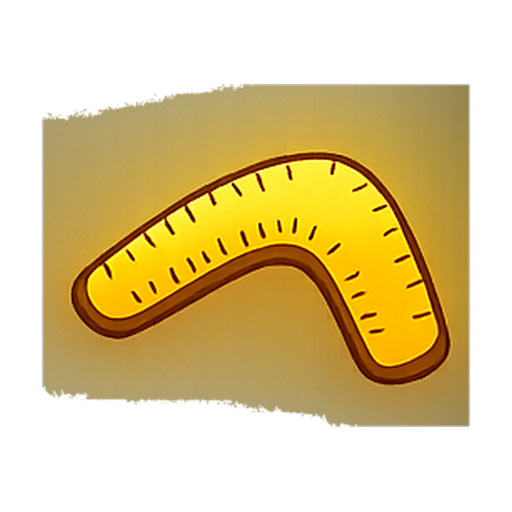
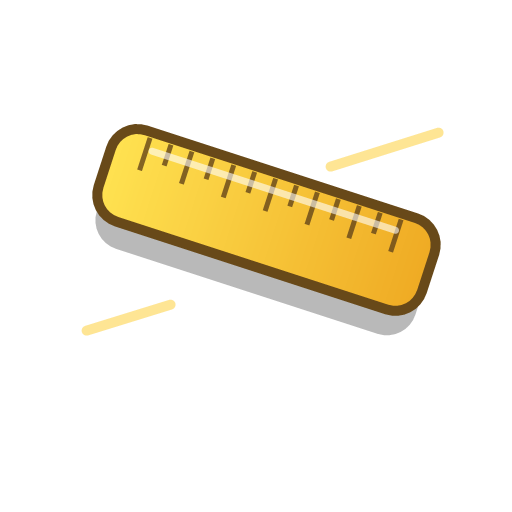
Publish Wonder Crash weapon and sound fixes

diff --git a/src/sound.js b/src/sound.js
@@ -30,6 +30,42 @@
       [860, 0.13, 0.05],
       [1080, 0.18, 0.055],
     ],
+    start: [
+      [420, 0.03, 0.035],
+      [640, 0.08, 0.045],
+      [840, 0.14, 0.04],
+    ],
+    shoot: [
+      [760, 0.01, 0.025],
+      [520, 0.04, 0.018],
+    ],
+    hit: [
+      [180, 0.01, 0.035],
+      [320, 0.035, 0.02],
+    ],
+    enemyDown: [
+      [420, 0.02, 0.028],
+      [680, 0.06, 0.036],
+      [980, 0.11, 0.026],
+    ],
+    wallHit: [
+      [120, 0.01, 0.05],
+      [90, 0.05, 0.035],
+    ],
+    boss: [
+      [140, 0.01, 0.045],
+      [180, 0.08, 0.04],
+      [110, 0.15, 0.04],
+    ],
+    upgrade: [
+      [560, 0.02, 0.035],
+      [760, 0.07, 0.04],
+      [1120, 0.13, 0.035],
+    ],
+    coin: [
+      [880, 0.02, 0.024],
+      [1180, 0.06, 0.024],
+    ],
   };
 
   function ensureContext() {

diff --git a/src/game.js b/src/game.js
@@ -397,6 +397,7 @@ function restart() {
 function startLevel(levelIndex) {
   if (levelIndex + 1 > highestUnlocked) {
     showFloatingMessage(t("locked"));
+    window.WonderSound?.play("wrong");
     return;
   }
   requestGameFullscreen();
@@ -408,6 +409,7 @@ function startLevel(levelIndex) {
   menuTabs.classList.add("hidden");
   overlay.classList.add("hidden");
   updateHud();
+  window.WonderSound?.play("start");
 }
 
 window.addEventListener("keydown", (event) => {
@@ -633,6 +635,7 @@ function shootWeaponSlot(slotIndex, entry) {
   const weapon = entry.weapon;
   const projectileCount = state.projectileCount;
   const spread = 36;
+  window.WonderSound?.play("shoot");
   for (let burst = 0; burst < state.burstCount; burst += 1) {
     for (let i = 0; i < projectileCount; i += 1) {
       const offset = (i - (projectileCount - 1) / 2) * spread;
@@ -728,6 +731,7 @@ function spawnBoss(wave) {
   addEnemy(type, wave, true);
   state.bossMinionTimer = 1.8;
   state.bossBanner = { text: t("boss_spawned", { name: t("enemy_" + type.id) }), life: 2.6 };
+  window.WonderSound?.play("boss");
 }
 
 function spawnBossMinions(wave) {
@@ -828,6 +832,7 @@ function throwBossBall(enemy) {
     color: getBossBallColor(enemy),
   });
   state.hits.push({ x: startX, y: startY, radius: size * 0.65, life: 0.18 });
+  window.WonderSound?.play("boss");
 }
 
 function getBossBallColor(enemy) {
@@ -858,6 +863,7 @@ function loseLevel() {
   menuTabs.classList.add("hidden");
   overlay.classList.remove("hidden");
   updateHud();
+  window.WonderSound?.play("wrong");
 }
 
 function winLevel() {
@@ -886,6 +892,7 @@ function winLevel() {
   profilePanel.innerHTML = renderSettlement(drops, wasChallenge);
   overlay.classList.remove("hidden");
   updateHud();
+  window.WonderSound?.play("win");
 }
 
 function rollLevelDrops() {
@@ -895,6 +902,7 @@ function rollLevelDrops() {
     profile.backpackItems.push(item);
     drops.push(item);
     saveProfile();
+    window.WonderSound?.play("coin");
   }
   return drops;
 }
@@ -974,6 +982,9 @@ function resolveHits() {
         if (enemy.hp <= 0) {
           state.score += 10;
           state.coins += Math.ceil(enemy.coinReward * state.coinMultiplier * (1 + getHeroCoinBonus()));
+          window.WonderSound?.play("enemyDown");
+        } else {
+          window.WonderSound?.play("hit");
         }
         break;
       }
@@ -1014,6 +1025,7 @@ function resolveBossProjectiles() {
         life: 0.7,
         maxLife: 0.7,
       });
+      window.WonderSound?.play("wallHit");
     }
   }
 }
@@ -1025,6 +1037,7 @@ function damageWall() {
       enemy.hp = 0;
       state.wallHp = Math.max(0, state.wallHp - Math.ceil(enemy.damage * (1 - getWallDamageReduction())));
       state.hits.push({ x: enemy.x, y: wallY, radius: enemy.type.ability === "breaker" ? 54 : 36, life: 0.28 });
+      window.WonderSound?.play("wallHit");
     }
   }
 }
@@ -1657,7 +1670,10 @@ function closeWeaponModal() {
 
 function buyProfileUpgrade(type) {
   const cost = getProfileUpgradeCost(type);
-  if (profile.coins < cost) return;
+  if (profile.coins < cost) {
+    window.WonderSound?.play("wrong");
+    return;
+  }
   profile.coins -= cost;
   if (type === "heroCoin") profile.heroCoinLevel += 1;
   if (type === "heroAttack") profile.heroAttackLevel += 1;
@@ -1671,6 +1687,7 @@ function buyProfileUpgrade(type) {
   saveProfile();
   renderProfilePanel(activeMenuTab);
   updateHud();
+  window.WonderSound?.play("upgrade");
 }
 
 function pickUpgrades(count) {
@@ -1709,6 +1726,7 @@ function applyUpgrade(upgrade) {
   }
   if (effect.wallHp) state.wallHp = Math.min(state.maxWallHp, state.wallHp + effect.wallHp);
   if (effect.coinMultiplier) state.coinMultiplier += effect.coinMultiplier;
+  window.WonderSound?.play("upgrade");
 }
 
 function bankRunCoins() {

diff --git a/games/wonder-crash/index.html b/games/wonder-crash/index.html
@@ -9,8 +9,8 @@
     <meta name="apple-mobile-web-app-status-bar-style" content="black-translucent" />
     <title>Wonder Crash - WeightPlay</title>
     <base href="../../" />
-    <link rel="manifest" href="manifest.webmanifest?v=20260629-wonder-cover1" />
-    <link rel="stylesheet" href="src/styles.css?v=20260629-wonder-cover1" />
+    <link rel="manifest" href="manifest.webmanifest?v=20260629-wonder-audio1" />
+    <link rel="stylesheet" href="src/styles.css?v=20260629-wonder-audio1" />
   </head>
   <body>
     <main class="game-shell">
@@ -67,14 +67,14 @@
     </main>
 
     <!-- Platform Modules and Script Loaders -->
-    <script src="src/site-config.js?v=20260629-wonder-cover1"></script>
-    <script src="src/analytics.js?v=20260629-wonder-cover1"></script>
+    <script src="src/site-config.js?v=20260629-wonder-audio1"></script>
+    <script src="src/analytics.js?v=20260629-wonder-audio1"></script>
     <script>
       window.WonderAnalytics?.track("game_view", { game_id: "wonder-crash" });
     </script>
-    <script src="src/sound.js?v=20260629-wonder-cover1"></script>
-    <script src="src/i18n.js?v=20260629-wonder-cover1"></script>
-    <script src="src/game-data.js?v=20260629-wonder-cover1"></script>
-    <script src="src/game.js?v=20260629-wonder-cover1"></script>
+    <script src="src/sound.js?v=20260629-wonder-audio1"></script>
+    <script src="src/i18n.js?v=20260629-wonder-audio1"></script>
+    <script src="src/game-data.js?v=20260629-wonder-audio1"></script>
+    <script src="src/game.js?v=20260629-wonder-audio1"></script>
   </body>
 </html>

diff --git a/index.html b/index.html
@@ -11,8 +11,8 @@
     <meta name="description" content="WeightPlay by WeightStudio is a mobile-first AI web game platform for kids, families, and casual players." />
     <meta name="copyright" content="Copyright 2026 WeightStudio. All rights reserved." />
     <title>WeightPlay by WeightStudio</title>
-    <link rel="manifest" href="manifest.webmanifest?v=20260629-cover-fix1" />
-    <link rel="stylesheet" href="src/styles.css?v=20260629-cover-fix1" />
+    <link rel="manifest" href="manifest.webmanifest?v=20260629-wonder-audio1" />
+    <link rel="stylesheet" href="src/styles.css?v=20260629-wonder-audio1" />
   </head>
   <body class="lobby-page">
     <main class="lobby-shell">
@@ -72,11 +72,11 @@
 
     <div id="lobbyToast" class="lobby-toast hidden" role="status" aria-live="polite"></div>
 
-    <script src="src/site-config.js?v=20260629-cover-fix1"></script>
-    <script src="src/analytics.js?v=20260629-cover-fix1"></script>
-    <script src="src/sound.js?v=20260629-cover-fix1"></script>
-    <script src="src/i18n.js?v=20260629-cover-fix1"></script>
-    <script src="src/lobby-data.js?v=20260629-cover-fix1"></script>
-    <script src="src/lobby.js?v=20260629-cover-fix1"></script>
+    <script src="src/site-config.js?v=20260629-wonder-audio1"></script>
+    <script src="src/analytics.js?v=20260629-wonder-audio1"></script>
+    <script src="src/sound.js?v=20260629-wonder-audio1"></script>
+    <script src="src/i18n.js?v=20260629-wonder-audio1"></script>
+    <script src="src/lobby-data.js?v=20260629-wonder-audio1"></script>
+    <script src="src/lobby.js?v=20260629-wonder-audio1"></script>
   </body>
 </html>

diff --git a/src/game-data.js b/src/game-data.js
@@ -4,7 +4,9 @@ window.WONDER_DATA = {
       bg: "assets/battle-bg.png",
       hero: "assets/hero.png",
       wall: "assets/wall.png",
-      eraser: "assets/eraser.png"
+      eraser: "assets/eraser.png",
+      pencil: "assets/weapon-pencil.png",
+      ruler: "assets/weapon-ruler.png"
     },
     enemies: [
 "assets/enemy-toilet.png",